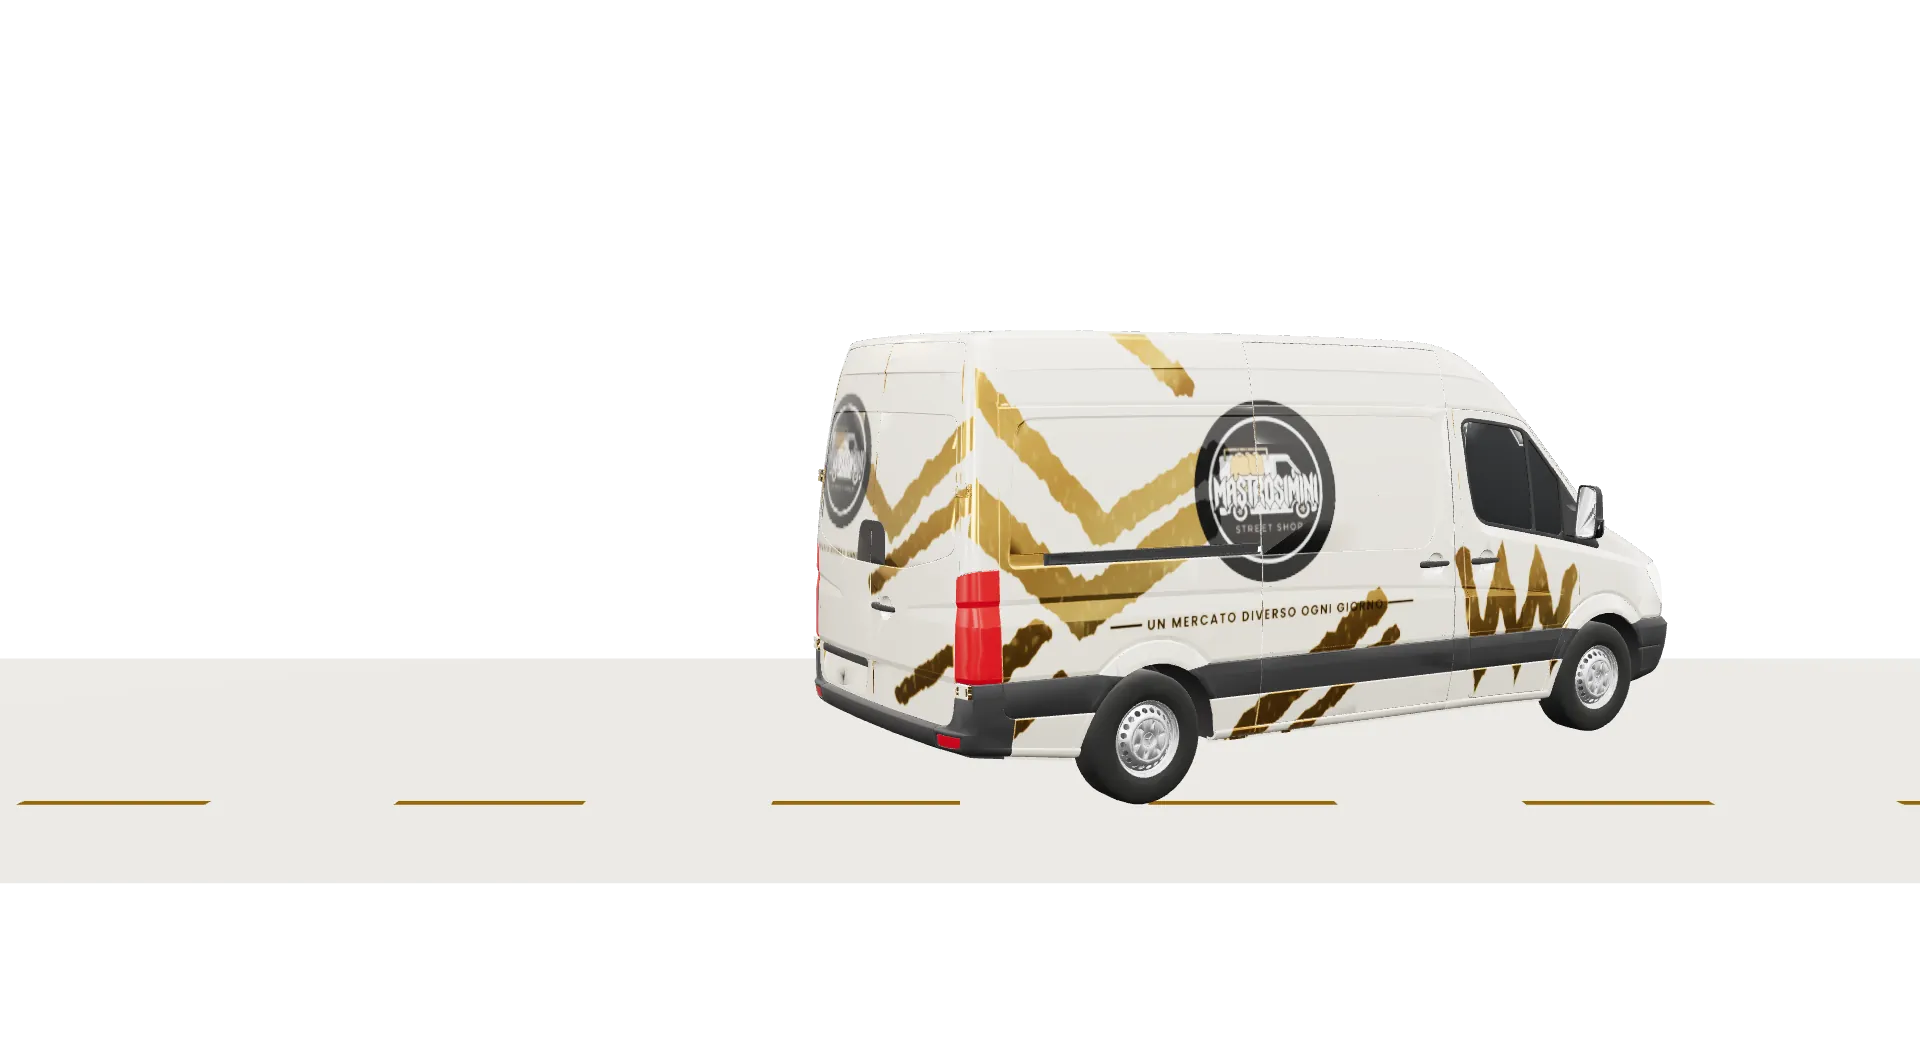
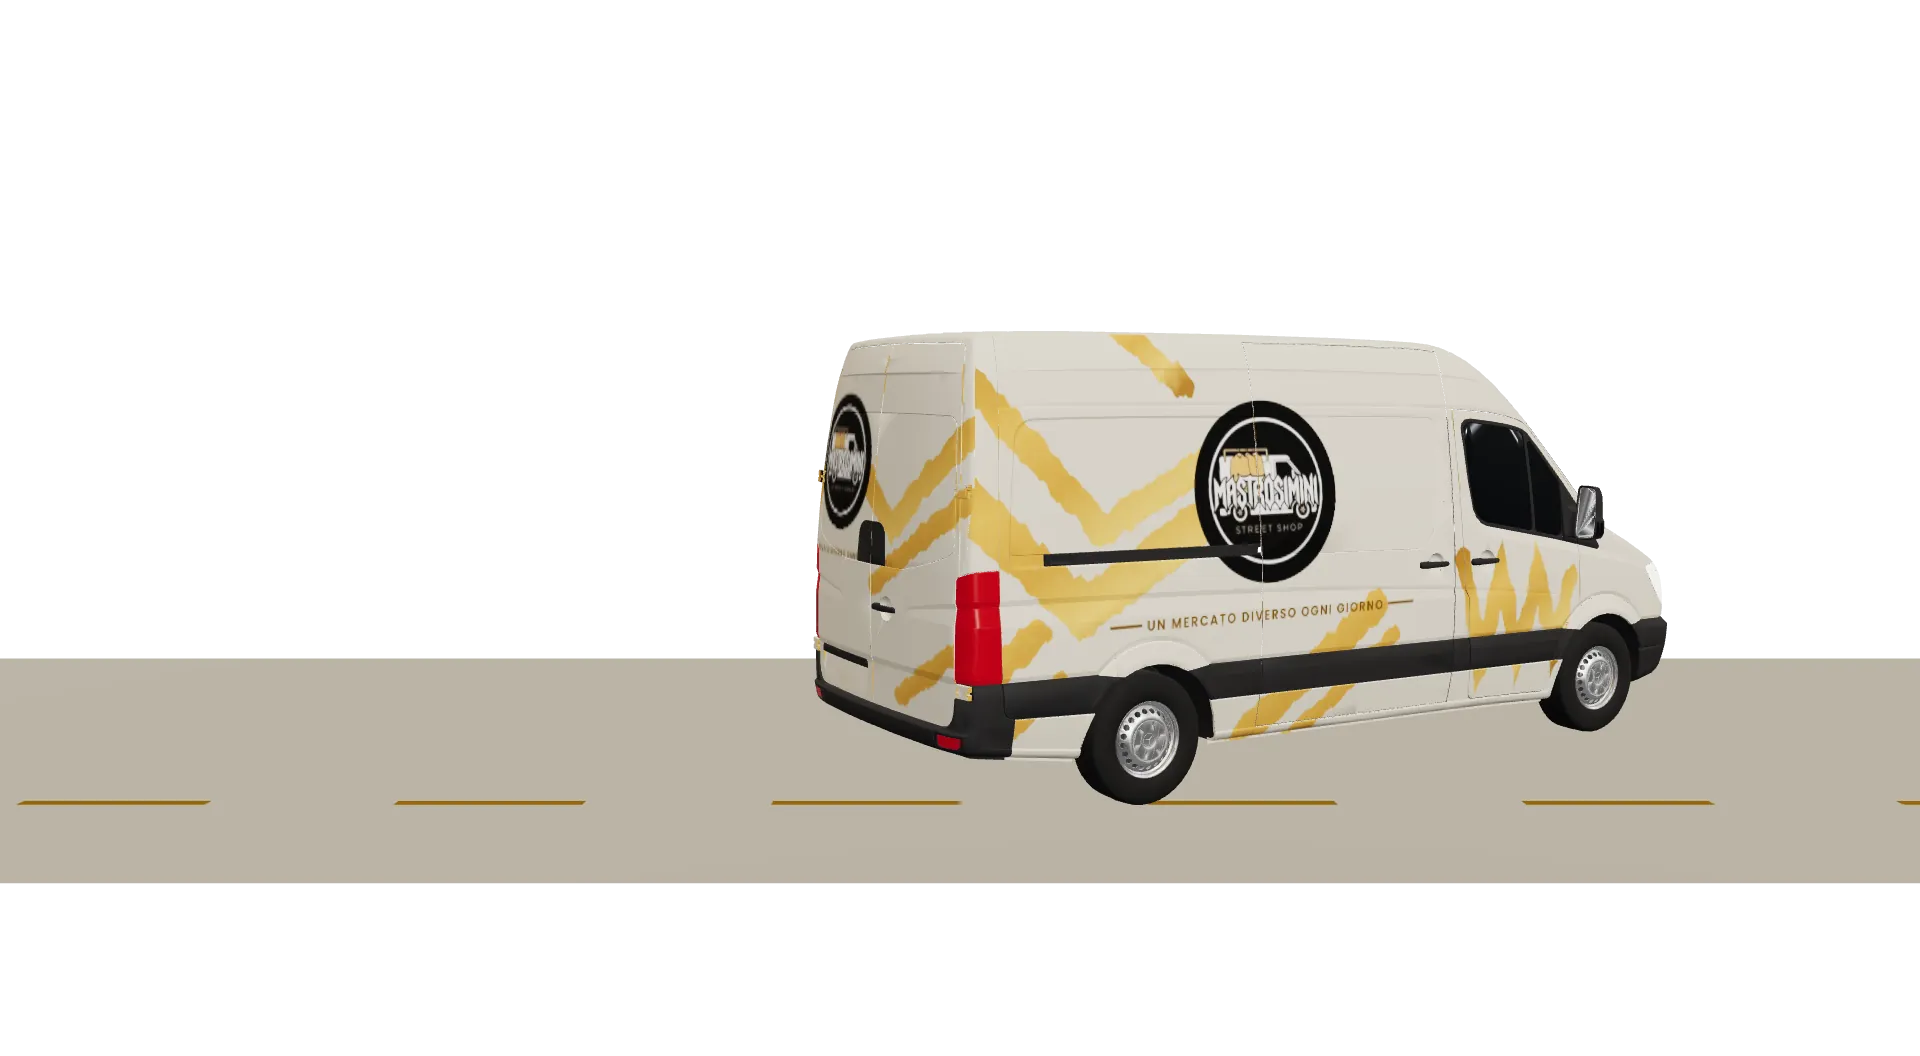
Light van: matte, no reflections (remove studio environment and clearcoat); flat lighting; new light poster images

Changed region(s): [[0.0, 0.3125, 1.0, 0.8438]]

diff --git a/src/components/3d/temaFurgone.ts b/src/components/3d/temaFurgone.ts
@@ -1,9 +1,8 @@
 import {
   Mesh,
-  MeshPhysicalMaterial,
+  MeshStandardMaterial,
   SRGBColorSpace,
   TextureLoader,
-  type MeshStandardMaterial,
   type Object3D,
   type Texture,
 } from "three";
@@ -16,7 +15,7 @@ const LIVREE: Record<string, string> = {
   Livrea_sinistra: "lato-sinistro-colore",
   Livrea_retro: "retro-colore",
 };
-const VERNICE_CHIARA = "#cdc7b6";
+const VERNICE_CHIARA = "#ddd7c7"; // come lo sfondo delle texture della livrea: pannelli verniciati e pannelli con livrea hanno lo stesso colore
 
 let chiare: Promise<Record<string, Texture>> | null = null;
 function caricaChiare() {
@@ -35,22 +34,20 @@ function caricaChiare() {
 const èCarrozzeria = (m: { name: string }) => m.name === "Vernice" || m.name in LIVREE;
 
 /**
- * Materiale "gemello" lucido per il tema chiaro: vernice crema con trasparente sopra (come una vera carrozzeria) e le pennellate oro
- * che riflettono l'ambiente. L'originale non si tocca: tornando al tema scuro si rimette lui.
+ * Materiale "gemello" opaco per il tema chiaro: vernice crema e pennellate oro senza riflessi (niente lucido, niente metallo).
+ * L'originale non si tocca: tornando al tema scuro si rimette lui.
  */
 function gemelloChiaro(m: MeshStandardMaterial, texture: Record<string, Texture>) {
-  const esistente = m.userData.gemelloChiaro as MeshPhysicalMaterial | undefined;
+  const esistente = m.userData.gemelloChiaro as MeshStandardMaterial | undefined;
   if (esistente) return esistente;
-  const g = new MeshPhysicalMaterial({ name: m.name });
-  g.roughnessMap = m.roughnessMap;
-  g.metalnessMap = m.metalnessMap;
-  g.metalness = m.metalness;
-  g.clearcoat = 1;
-  g.clearcoatRoughness = 0.05;
-  g.ior = 2; // più riflettente della vernice base: i riflessi si vedono anche su un fondo chiaro
+  const g = new MeshStandardMaterial({
+    name: m.name,
+    roughness: 0.95,
+    metalness: 0,
+    envMapIntensity: 0.15,
+  });
   if (m.name === "Vernice") {
     g.color.set(VERNICE_CHIARA);
-    g.roughness = 0.25;
   } else {
     const t = texture[m.name];
     const originale = m.map as Texture;
@@ -60,14 +57,13 @@ function gemelloChiaro(m: MeshStandardMaterial, texture: Record<string, Texture>
     t.wrapT = originale.wrapT;
     t.anisotropy = originale.anisotropy;
     g.map = t;
-    g.roughness = 0.6; // si moltiplica per la ruvidità della mappa: un po' più liscio del nero opaco
   }
   m.userData.gemelloChiaro = g;
   return g;
 }
 
 /**
- * Furgone chiaro nel tema chiaro: carrozzeria crema lucida con le stesse pennellate oro. Le texture chiare si scaricano solo la prima volta
+ * Furgone chiaro nel tema chiaro: carrozzeria crema opaca con le stesse pennellate oro. Le texture chiare si scaricano solo la prima volta
  * che serve; i materiali sono condivisi tra le scene, quindi il cambio vale per tutte.
  */
 export async function applicaTemaFurgone(radice: Object3D, tema: Tema) {

diff --git a/src/components/3d/SceneBase.tsx b/src/components/3d/SceneBase.tsx
@@ -7,7 +7,6 @@ import { PMREMGenerator } from "three";
 import { RoomEnvironment } from "three/examples/jsm/environments/RoomEnvironment.js";
 import { iscriviTema, leggiTema, type Tema } from "@/lib/theme";
 import { isLowPower } from "@/lib/webgl";
-import { creaAmbienteChiaro } from "./ambienteChiaro";
 
 /** Strada con linea tratteggiata oro: asfalto scuro nel tema scuro, grigio chiaro nel tema chiaro. */
 export function Road({ length = 80 }: { length?: number }) {
@@ -38,15 +37,14 @@ export function Road({ length = 80 }: { length?: number }) {
 }
 
 /** Riflessi per i materiali metallici (oro, cromature) generati in codice: nessun file HDR da scaricare. */
-function StudioReflections({ chiaro }: { chiaro: boolean }) {
+function StudioReflections() {
   const gl = useThree((s) => s.gl);
   const env = useMemo(() => {
-    if (chiaro) return creaAmbienteChiaro(gl);
     const pmrem = new PMREMGenerator(gl);
     const tex = pmrem.fromScene(new RoomEnvironment(), 0.04).texture;
     pmrem.dispose();
     return tex;
-  }, [gl, chiaro]);
+  }, [gl]);
   useEffect(() => () => env.dispose(), [env]);
   return <primitive object={env} attach="environment" />;
 }
@@ -129,26 +127,26 @@ export function SceneCanvas({
         shadows={!low}
         camera={{ position: camera, fov: 38 }}
         gl={{ antialias: !low, powerPreference: "high-performance" }}
-        scene={{ environmentIntensity: tema === "light" ? 1.2 : 0.9 }}
+        scene={{ environmentIntensity: tema === "light" ? 0.3 : 0.9 }}
         aria-hidden="true"
       >
         {!senzaSfondo && (
           <color attach="background" args={[tema === "light" ? "#f4f4f2" : "#0c0c0c"]} />
         )}
-        <hemisphereLight args={["#ffffff", "#1a1208", tema === "light" ? 0.15 : 0.5]} />
+        <hemisphereLight args={["#ffffff", "#1a1208", tema === "light" ? 0.6 : 0.5]} />
         <directionalLight
           position={[4, 6, 5]}
-          intensity={tema === "light" ? 0.8 : 2.4}
+          intensity={tema === "light" ? 1.5 : 2.4}
           color="#fff3e0"
           castShadow={!low}
         />
         <directionalLight
           position={[-5, 3, -4]}
-          intensity={tema === "light" ? 1.2 : 1.6}
+          intensity={tema === "light" ? 0.9 : 1.6}
           color="#d4a85c"
         />
         <FitCamera base={camera[2]} />
-        <StudioReflections chiaro={tema === "light"} />
+        <StudioReflections />
         <Suspense fallback={null}>{children}</Suspense>
         {!low && (
           <ContactShadows position={[0, 0.01, 0]} opacity={0.6} scale={14} blur={2.2} far={3} />
